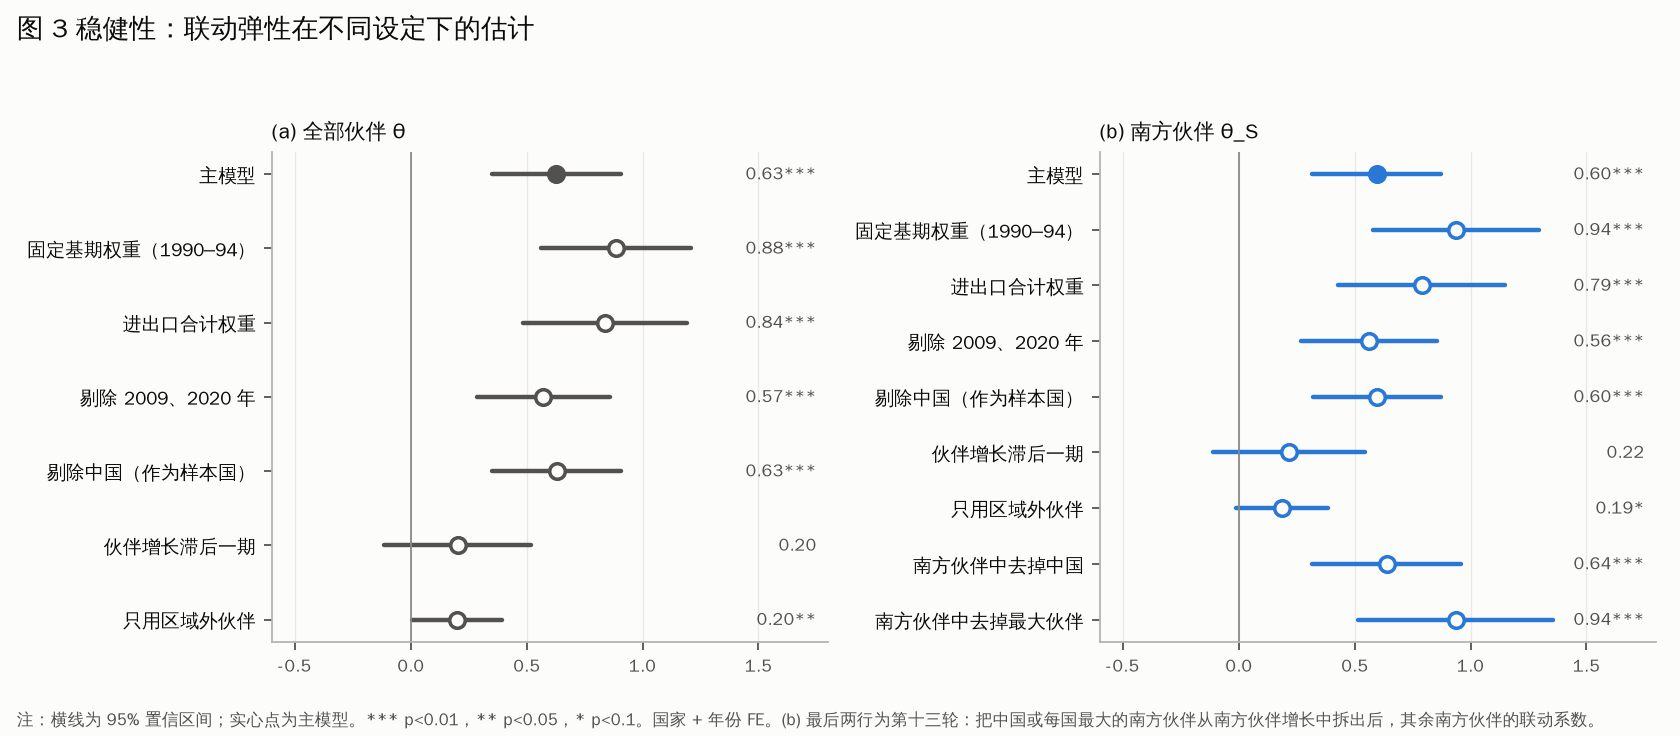
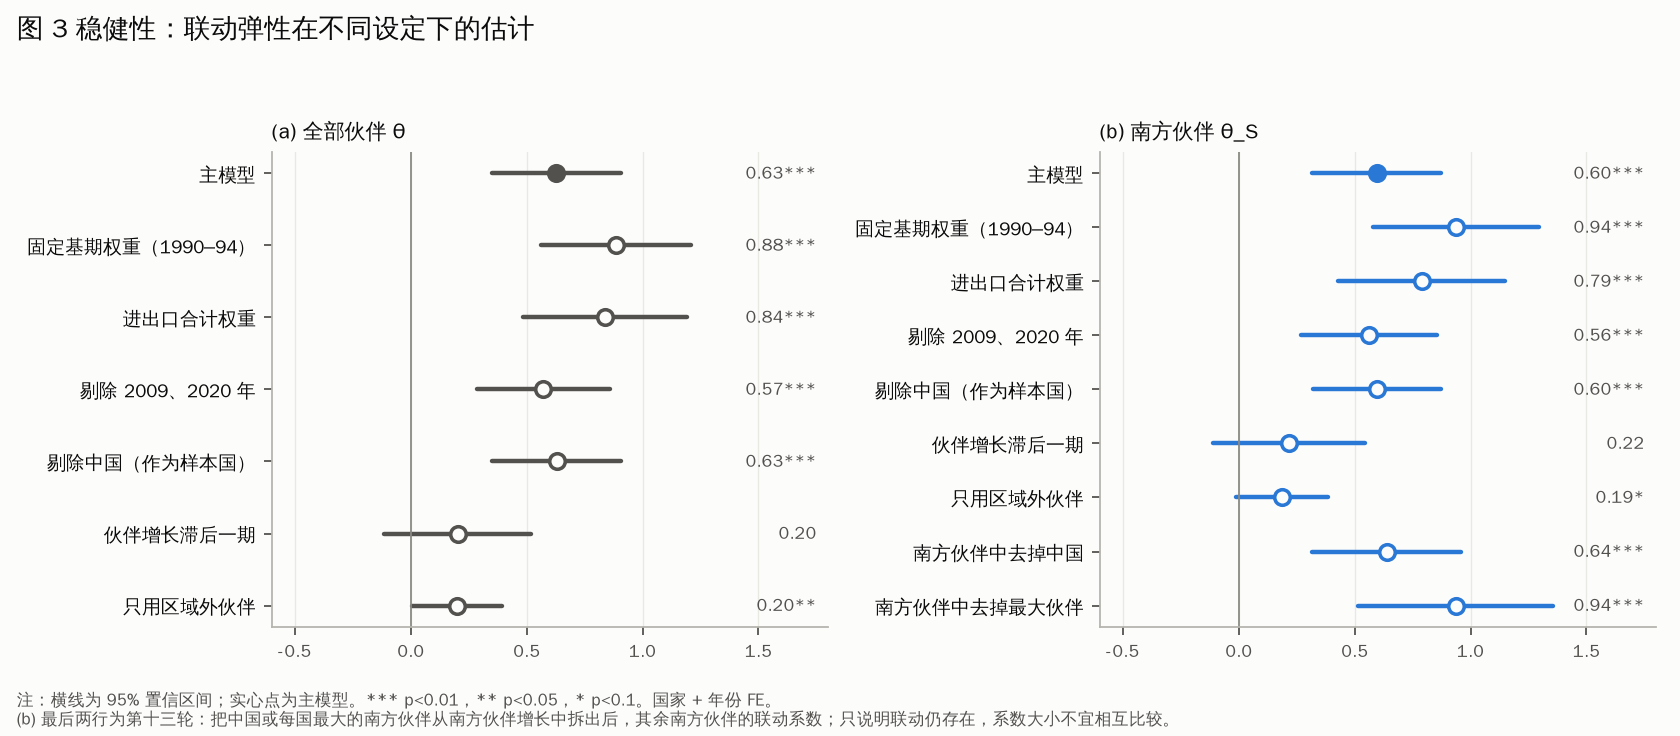
撤回「最大南方伙伴的单位联动较弱」的表述：系数差异未检验，且分散组合更贴近共同冲击；M2 只用于说明其余南方伙伴联动仍存在；图 3 注释补充说明
Claude-Session: https://claude.ai/code/session_01FYoKaXrYZEmiyqRJMaVcEd

diff --git a/code/52_linkage_paper_figures.py b/code/52_linkage_paper_figures.py
@@ -57,7 +57,7 @@ def style(ax, grid="y"):
 def save(fig, name, title, note):
     fig.suptitle(title, fontsize=12, color=INK, x=0.01, ha="left")
     fig.text(0.01, 0.01, note, fontsize=7.5, color=INK2, ha="left", va="bottom")
-    fig.tight_layout(rect=(0, 0.05, 1, 0.94))
+    fig.tight_layout(rect=(0, 0.07 if "\n" in note else 0.05, 1, 0.94))
     fig.savefig(FIG / name, dpi=160, facecolor=SURF)
     plt.close(fig)
 
@@ -234,8 +234,8 @@ for ax, key, col, title in [(axes[0], "L1", INK2, "(a) 全部伙伴 θ"), (axes[
     ax.set_title(title, fontsize=9.5, color=INK, loc="left")
     ax.set_yticks(range(len(s)), s.设定[::-1], fontsize=8.5, color=INK)
 save(fig, "lk_fig3_robustness.png", "图 3 稳健性：联动弹性在不同设定下的估计",
-     "注：横线为 95% 置信区间；实心点为主模型。*** p<0.01，** p<0.05，* p<0.1。国家 + 年份 FE。(b) 最后两行为第十三轮："
-     "把中国或每国最大的南方伙伴从南方伙伴增长中拆出后，其余南方伙伴的联动系数。")
+     "注：横线为 95% 置信区间；实心点为主模型。*** p<0.01，** p<0.05，* p<0.1。国家 + 年份 FE。\n(b) 最后两行为第十三轮："
+     "把中国或每国最大的南方伙伴从南方伙伴增长中拆出后，其余南方伙伴的联动系数；只说明联动仍存在，系数大小不宜相互比较。")
 
 # ---------------------------------------------------------------------------
 # 五、图 4：联动的条件（读取第十、十一轮已登记检验的结果表，不做新估计）

diff --git a/docs/results_vs_prereg13.md b/docs/results_vs_prereg13.md
@@ -58,10 +58,14 @@
 
 1. **南南联动是多源的**：
    - 把中国拆出后，其余南方伙伴的联动系数（0.64）与第十二轮的 θ_S（0.60）基本相同；
-   - 把每个国家最大的南方伙伴拆出后，其余南方伙伴的系数更大（0.94）；
+   - 把每个国家最大的南方伙伴拆出后，其余南方伙伴的系数仍显著（0.94，区域×年份 FE 下 0.51）；
    - 两项在区域×年份 FE 下都仍显著。
    - 因此，**南南联动不是由中国或任何单一南方大国「撑起来」的**，没有证据显示形成了一个新的单一中心。这可以回应「新依附」的质疑，也对应「共同性」。
-2. **最大伙伴的单位联动反而较弱**：最大南方伙伴的系数（0.34）低于其余南方伙伴（0.94），在区域×年份 FE 下不显著。一种可能的解释是：与最大伙伴的贸易更多是大宗商品或单一品类，而分散的南方伙伴之间的联动更广泛。这一点只是推测，没有检验。
+2. **系数大小不作比较（2026-09-25 更正）**：此前写的「最大伙伴的单位联动反而较弱」撤回，不作为发现。理由有两点：
+   - 脚本没有检验 g^S,−TOP 与 g^TOP 的系数差异，区域×年份 FE 下两者的置信区间可能重叠；
+   - 由众多伙伴组成的分散组合，比单个伙伴更贴近区域和全球的共同冲击，所以即使存在共同冲击的残留，分散部分的系数也会更大。控制区域×年份冲击后，该系数从 0.94 降到 0.51，与这种解释一致。
+   - 同理，0.94 高于 θ_S 的 0.60，**不能**读成「去掉最大伙伴后南南联动更强」。
+   - **M2 只用来说明「去掉最大伙伴后，其余南方伙伴的联动仍然存在」**。这一比较在论文中最多放在脚注里。如果要作为正文结果，需要先登记区域×年份 FE 下的差异检验。
 3. **中国的角色要写得准确**：
    - 中国的单位系数估计不精确，不能说「中国的带动效应显著」，也不能说「中国没有带动效应」；
    - 可以说的是：中国在发展中国家出口中的份额上升（约 2% 升至约 12%），是南方关系比重上升的一部分；而南南联动的证据**并不依赖中国**。

diff --git a/docs/cn_paper_outline.md b/docs/cn_paper_outline.md
@@ -121,6 +121,7 @@
 - **联动是多源的**（第十三轮，表 4b）：
   - 从南方伙伴增长中拆出中国后，其余南方伙伴的联动为 0.64（区域×年份 FE 下 0.30）；
   - 拆出各国最大的南方伙伴后为 0.94（0.51）；
+  - **两项只用来说明「拆出后其余南方伙伴的联动仍然存在」，系数大小不作比较**：分散组合比单个伙伴更贴近共同冲击，系数更大本身就可能来自共同冲击的残留；最大伙伴与其余伙伴的系数差异没有检验过。相关讨论最多放在脚注里；
   - 最大的南方伙伴中，中国占 19%，其余依次为印度、俄罗斯、南非、巴西等。
   - 结论：南南联动不依赖单一的南方大国，**没有形成新的单一中心**。这回应「新依附」的质疑，对应「共同性」。
 - **中国的位置**：中国是南方关系比重上升的重要组成部分（对华出口份额约 2% 升至约 12%）。但中国的单位联动系数估计不精确（0.26，SE 0.22），不能说「显著带动」，也不能说「没有带动」；南南联动的证据不依赖中国。
@@ -196,6 +197,8 @@
 | 因果效应 | 稳健的联动证据 / 与联动机制一致 |
 | 南方已与北方平等 | 结构转型正在进行，单位强度仍有差异 |
 | 中国的带动效应 | 中国是南方关系比重上升的重要组成部分 |
+| 北方带动更强，证明等级性依然存在 | 单位系数上北方高于南方（差异 p < 0.05），这与等级性的解释一致；但北方增长与全球周期的同步程度可能更高，差异中也可能含有共同冲击的成分 |
+| 最大南方伙伴的联动较弱 / 去掉最大伙伴后南南联动更强 | （不写入正文；最多放在脚注：系数大小不宜比较，差异未经检验） |
 | 南南联动靠中国支撑 / 中国没有带动 | 南南联动是多源的，不依赖单一南方大国；中国的单位联动估计不精确 |
 | 剔除中国后结果不变（指第十二轮稳健性） | 把中国从样本国中剔除后结果不变；把中国从伙伴中拆出后，其余南方伙伴的联动仍稳健（第十三轮） |
 | 规则无用 | 规则需要落到实际经济关系上 |

diff --git a/docs/preliminary_report_linkage.md b/docs/preliminary_report_linkage.md
@@ -122,6 +122,7 @@
   - 把中国从南方伙伴增长中拆出后，其余南方伙伴的联动为 0.64（p < 0.001；区域×年份 FE 下 0.30，p = 0.033）；
   - 把各国最大的南方伙伴拆出后为 0.94（p < 0.001；区域×年份 FE 下 0.51，p = 0.020）；
   - 两项均为「稳健支持」。南南联动不依赖中国或任何单一南方大国，没有形成新的单一中心。
+  - 这两项只说明「拆出后其余南方伙伴的联动仍然存在」，**系数大小不宜相互比较**。分散组合更贴近共同冲击，而且最大伙伴与其余伙伴的系数差异没有检验过。
   - 中国的单位联动系数估计不精确（0.26，SE 0.22），不宜单独解读。
 
 ![图 1](../output/figures/lk_fig1_source_shift.png)
